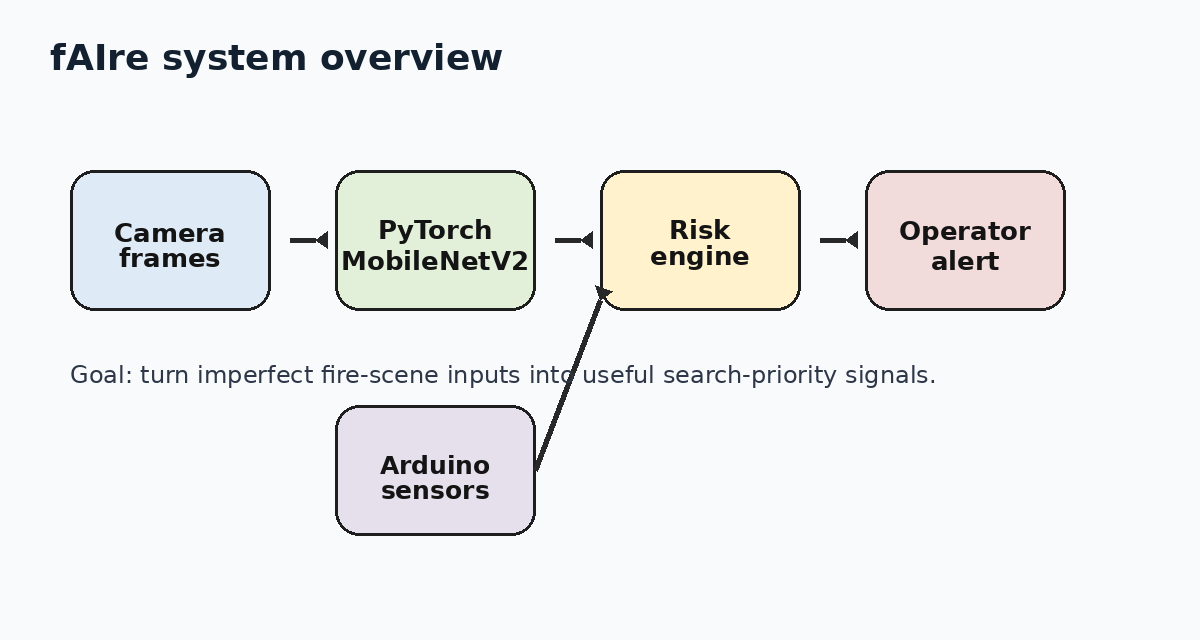
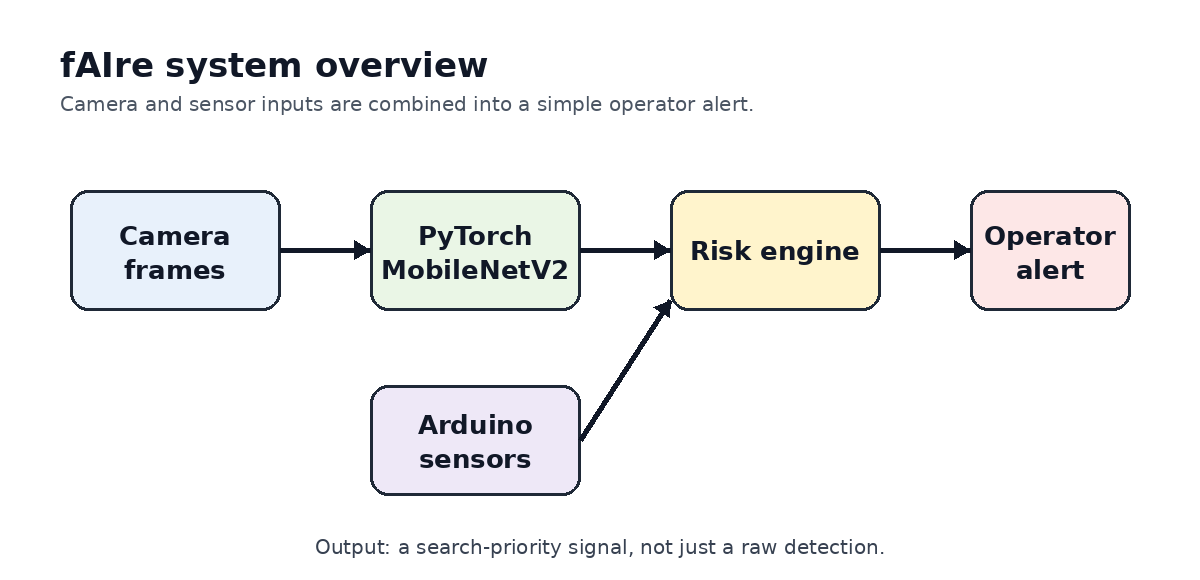
fAIre update

diff --git a/README.md b/README.md
@@ -1,34 +1,32 @@
-# fAIre — Search-and-Rescue Robot Vision System
+# fAIre — Fire Search & Rescue Rover
 
-> A personal robotics + computer-vision project exploring how a small rover could help search fire-scene environments with camera input, lightweight AI, sensor readings, and flashover-aware risk scoring.
+> A personal robotics and computer-vision project exploring how a small rover could assist in hazardous fire-scene environments using camera input, lightweight AI, sensor readings, and flashover-aware risk scoring.
 
-fAIre started as a hands-on robotics experiment and evolved into a more complete software pipeline: prepare image data, train a lightweight vision model, evaluate it with recall-focused metrics, run inference on images/video/webcam, and combine AI confidence with sensor readings to produce search-priority alerts.
+fAIre started as a hands-on robotics build and gradually evolved into a full software pipeline: prepare image data, train a lightweight vision model, evaluate it with recall-focused metrics, run inference on images/video/webcam, and combine AI confidence with sensor readings to produce practical search-priority alerts.
 
-The project is intentionally built like a prototype, not a perfect finished product. The public repo contains the reusable code and documentation. Large datasets, trained weights, and private/raw test media are kept out of git.
+## Demo video
 
-<!-- YouTube demo slot: when the video is uploaded, uncomment the next line and replace the URL. -->
-<!-- [Watch the fAIre demo on YouTube](https://www.youtube.com/watch?v=YOUR_VIDEO_ID) -->
+<!-- Replace the YouTube URL below with your uploaded demo video link. -->
+[![Watch Demo Video](media/watch_demo_video.png)](https://www.youtube.com/watch?v=YOUR_VIDEO_ID)
+
+[Watch the demo video](https://www.youtube.com/watch?v=YOUR_VIDEO_ID)
 
 ---
 
 ## What the project does
 
-fAIre is organized around a simple idea: a robot in a dangerous environment should not just “detect something.” It should turn camera and sensor input into an alert that is useful to a human operator.
-
-<p align="center">
-  <img src="media/system_overview.png" alt="fAIre system overview" width="820">
-</p>
+fAIre is built around one simple idea: a robot in a dangerous environment should not just “detect something.” It should turn imperfect camera and sensor input into an alert that is useful to a human operator.
 
 Current capabilities:
 
-- **Image classifier training** using PyTorch transfer learning with MobileNetV2.
+- **PyTorch image classification** using MobileNetV2 transfer learning.
 - **Dataset preparation** from raw class folders into train/validation/test splits.
-- **Evaluation** with precision, recall, F1 score, support, and a saved confusion matrix.
+- **Evaluation** with precision, recall, F1 score, support, and confusion matrix output.
 - **Threshold tuning** for a recall-first operating point.
 - **Inference** on image files, video files, or webcam streams using OpenCV.
-- **Risk scoring** that combines model confidence with temperature/smoke/CO-style sensor values.
+- **Risk scoring** that combines model confidence with environmental sensor readings.
 - **Flashover warning index** that estimates rapid fire-growth risk from heat, smoke, gas, oxygen, and temperature-trend signals.
-- **Arduino sensor streaming** sketch for hardware readings over serial.
+- **Arduino sensor streaming** for hardware readings over serial.
 
 <p align="center">
   <img src="media/concept_demo.gif" alt="fAIre concept demo animation" width="760">
@@ -36,40 +34,52 @@ Current capabilities:
 
 ---
 
-## Tech stack
+## Why I built it
 
-| Layer | Tools used | Why it is used |
-|---|---|---|
-| Training | **PyTorch**, torchvision | Transfer learning, checkpointing, reproducible model code |
-| Model | **MobileNetV2** | Lightweight CNN suitable for edge/robotics experiments |
-| Data prep | Python, Pillow | Clean class folders, resize images, create train/val/test splits |
-| Evaluation | scikit-learn, matplotlib | Precision, recall, F1, confusion matrix |
-| Inference | OpenCV, PyTorch | Run on image, video, or webcam frames |
-| Safety logic | Python dataclasses | Transparent risk and flashover scoring |
-| Hardware | Arduino-style serial sketch | Stream simple sensor readings to the AI layer |
-| Testing | pytest | Keep core risk-scoring logic stable |
+The goal was to connect robotics, AI, and emergency-response thinking into one project. Instead of stopping at a basic rover or a basic classifier, fAIre explores how a small robot could collect visual and environmental information, process it with lightweight machine learning, and surface a simple alert that helps guide search priority.
+
+The project is still a prototype. It is not a certified firefighting tool, and it should not be treated like one. The value of the repo is the end-to-end build: data prep, model training, inference, risk scoring, flashover modeling, hardware integration, and documentation.
 
 ---
 
-## System architecture
+## Tech stack
+
+| Layer | Tools used | Purpose |
+|---|---|---|
+| Training | **PyTorch**, torchvision | Transfer learning, checkpointing, reproducible model code |
+| Model | **MobileNetV2** | Lightweight CNN for robotics-style vision experiments |
+| Data prep | Python, Pillow | Clean class folders, resize images, create train/val/test splits |
+| Evaluation | scikit-learn, matplotlib | Precision, recall, F1, confusion matrix |
+| Inference | OpenCV, PyTorch | Run on image, video, or webcam frames |
+| Risk logic | Python dataclasses | Transparent risk and flashover scoring |
+| Hardware | Arduino-style serial sketch | Stream simple sensor readings to the AI layer |
+| Testing | pytest | Keep core scoring logic stable |
+
+---
+
+## System overview
+
+<p align="center">
+  <img src="media/system_overview.png" alt="fAIre system overview" width="760">
+</p>
 
 ```text
-Camera / robot sensors
+Camera frames + sensor readings
         |
         v
-Frame preprocessing + sensor parsing
+Preprocessing and sensor parsing
         |
         v
 PyTorch MobileNetV2 classifier
         |
         v
-Risk engine: model confidence + sensor severity + flashover index
+Risk engine: vision confidence + sensor severity + flashover index
         |
         v
-Search-priority alert for operator
+Search-priority alert for the operator
 ```
 
-The current public version is a **frame-level classifier pipeline**. It predicts whether an input frame appears to contain the target condition, then converts that signal into a structured alert. A future version can swap the classifier for an object detector to localize the person or hazard with bounding boxes.
+The current public version is a **frame-level classifier pipeline**. It predicts whether an input frame appears to contain the target condition, then converts that signal into a structured alert. A future version can swap the classifier for an object detector to localize a person or hazard with bounding boxes.
 
 More detail:
 
@@ -244,7 +254,7 @@ Webcam:
 python inference/detect.py --input 0 --weights models/fire_model.pt --conf 0.50
 ```
 
-The inference script prints JSON-like alert events so the output can later be connected to a dashboard, logger, or radio/command-station interface.
+The inference script prints JSON-like alert events so the output can later be connected to a dashboard, logger, or command-station interface.
 
 Example alert shape:
 
@@ -265,7 +275,7 @@ Example alert shape:
 
 ## Risk and flashover scoring
 
-The model confidence is not the whole system. A robot can also use sensor values to make the alert more useful.
+The model confidence is not the whole system. A robot can also use environmental values to make the alert more useful.
 
 <p align="center">
   <img src="media/risk_score_example.png" alt="Risk score example" width="760">
@@ -277,7 +287,7 @@ The current alert score is intentionally simple and readable:
 risk_score = 0.60 * vision_confidence + 0.25 * sensor_severity + 0.15 * flashover_index
 ```
 
-The flashover index is a project-defined decimal score from `0.00` to `1.00`. It studies the available fire-environment signals and tries to answer a narrower question:
+The flashover index is a project-defined decimal score from `0.00` to `1.00`. It studies fire-environment signals and tries to answer a focused question:
 
 > Are heat, smoke, gas chemistry, oxygen, and temperature trend moving toward rapid fire growth?
 
@@ -287,7 +297,7 @@ The flashover index is a project-defined decimal score from `0.00` to `1.00`. It
 
 Signals used by the flashover module:
 
-- **Temperature / heat flux** — the most important flashover drivers.
+- **Temperature / heat flux** — core fire-growth drivers.
 - **Smoke** — a proxy for pyrolysis, visibility loss, and fire growth.
 - **CO** — a toxic incomplete-combustion gas.
 - **CO2** — a combustion product that can indicate fire involvement and oxygen displacement.